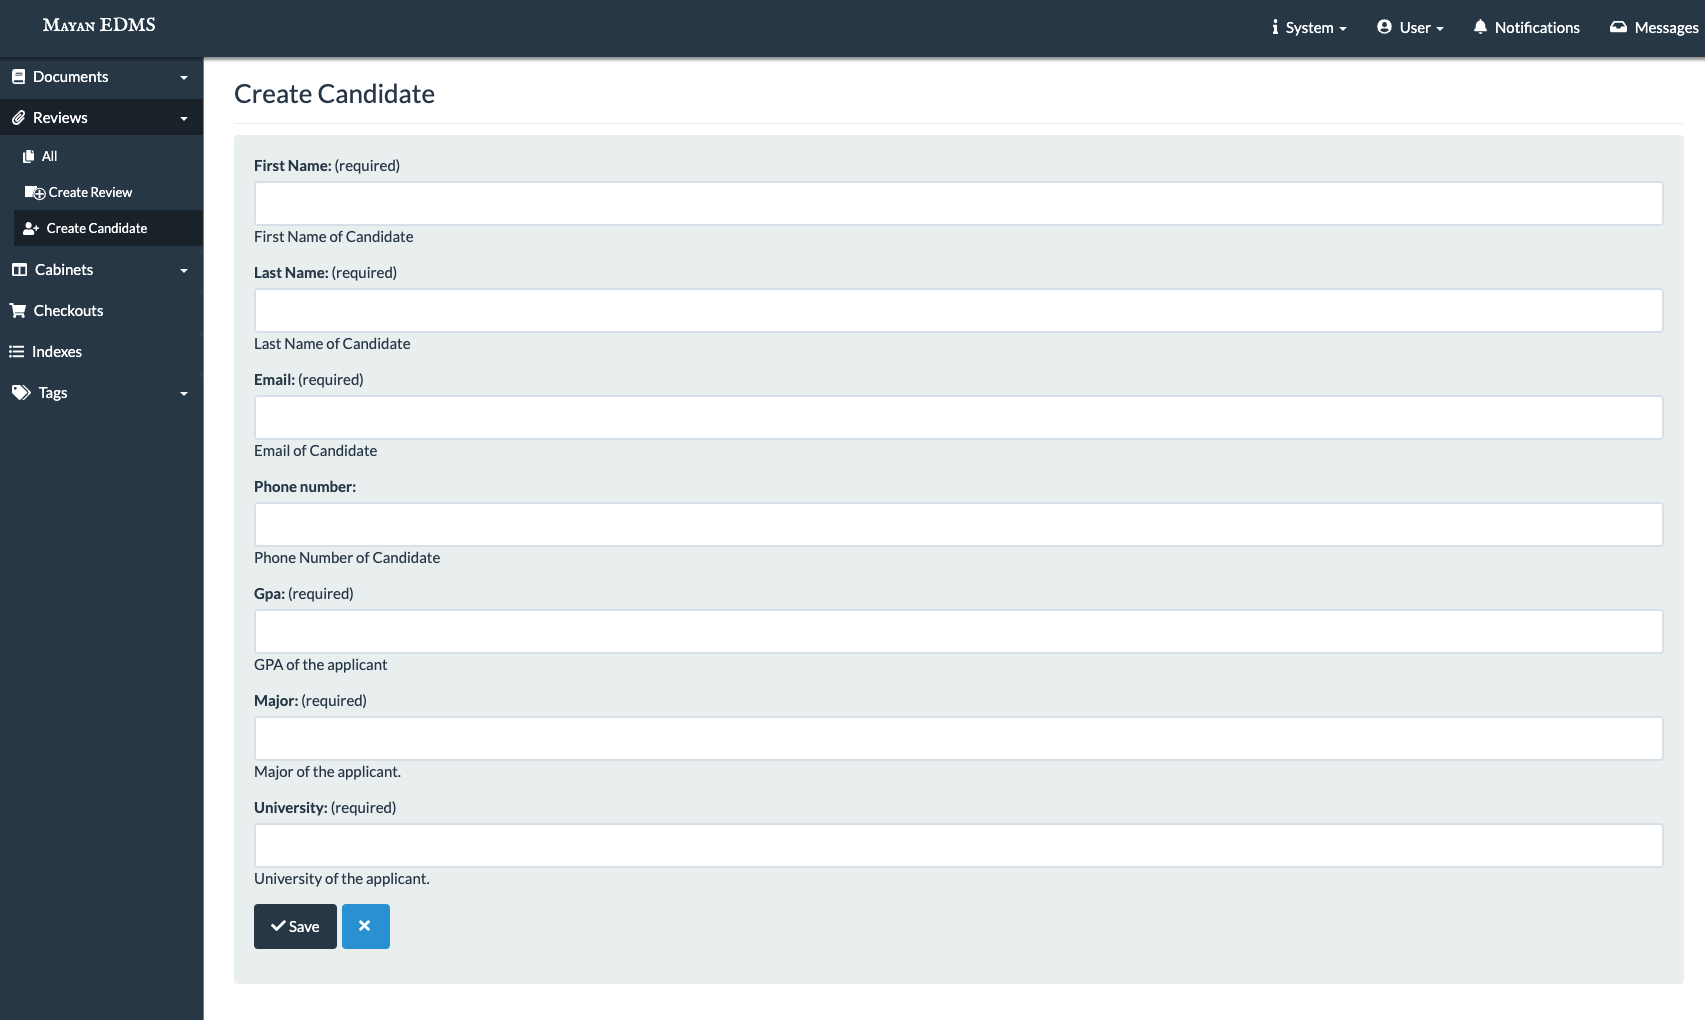
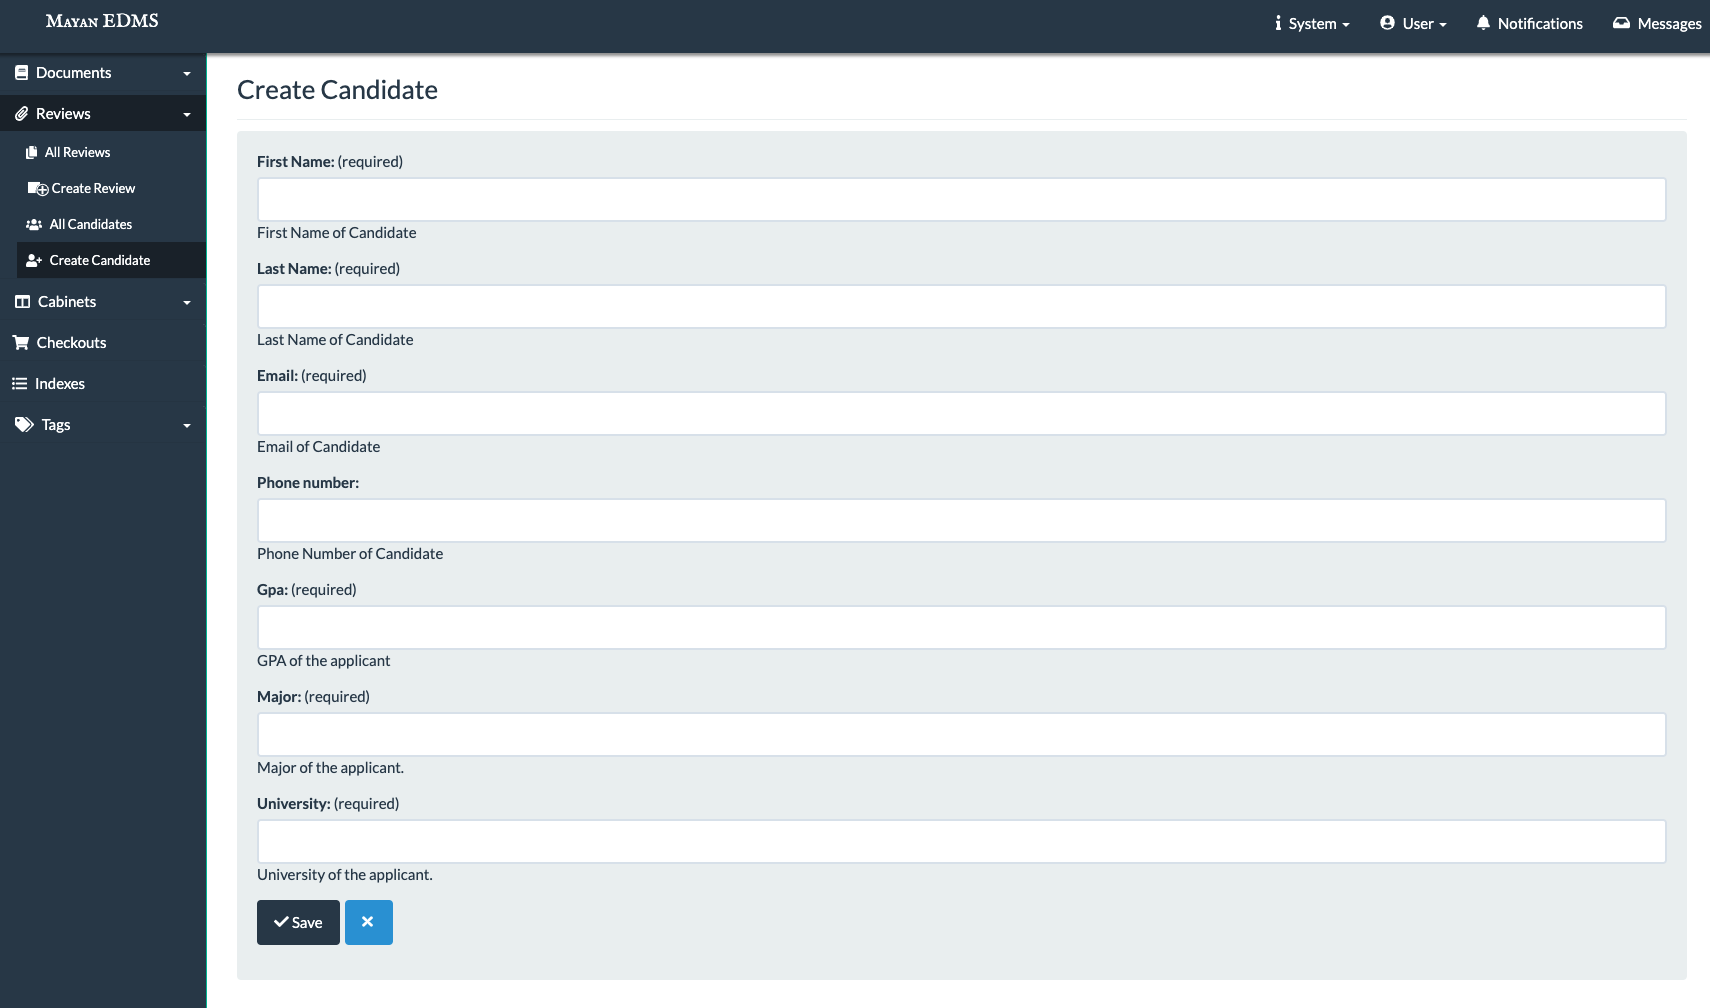
Revised and updated documentation

diff --git a/README.md b/README.md
@@ -92,9 +92,10 @@ along various directions. All code can be found in the `mayan/apps/reviews` fold
 consists of two main components: reviews and candidates. On the side navigation, we have an addition
 <b>reviews</b> tab that gives three options:
 
-1. <b>Create Review</b>: This page allows the user to create a new review for an established candidate
-2. <b>Create Candidate</b>: This page allows the user to add a new candidate to the database
-3. <b>All</b>: This page showcases all the different reviews for a specific candidate
+1. <b>Create Candidate</b>: This page allows the user to add a new candidate to the database 
+2. <b>Create Review</b>: This page allows the user to create a new review for an established candidate
+3. <b>All Reviews</b>: This page showcases all the different reviews for a specific candidate
+4. <b>All Candidates</b>: This page showcases all the different reviews for a specific candidate
 
 All additional tests can be found in `mayan/apps/reviews/tests`. These tests run automatically with GitHub actions. 
 
@@ -114,14 +115,18 @@ All additional tests can be found in `mayan/apps/reviews/tests`. These tests run
 <p>
 <img width="1000" heigth="1000" src="images/review_candidate.png">
 <p align="center">Figure 2: Individual Candidate Review Creation Page</p>
-<h3 align="left">All</h3>
+<h3 align="left">All Reviews</h3>
 <p>
-  Once a candidate has been created, they will be added to the <b>All</b> page where all reviews for all candidates are stored. Users can see the results for
-  each candidate by clicking on that specific review to find the candidate, reviewer, and the scores for each criteria.
+  Once a review for a candidate has been created, it is added to <b>All Reviews</b>. This page stores all the reviews, and shows the candidate, reviewer, and the creation date. We also have CRUD functionality.
 <p>
 <img width="1000" heigth="1000" src="images/show_all_candidate_reviews.png">
-<p align="center">Figure 3: View of Candidates with their Reviewer</p>
+<p align="center">Figure 3: View of All Reviews</p>
 
+<h3 align="left">All Candidates</h3>
+<p>
+  Once a candidate has been created, they will be added to the <b>All Candidate</b> page where the candidate is stored with the total reviews, and the average for each score. Any candidate without any reviews will have N/A for the average scores.
+<p>
 <img width="1000" heigth="1000" src="images/show_candidate_review.png">
 <p align="center">Figure 4: View of Individual Candidate</p>
-
+<img width="1000" heigth="1000" src="images/show_all_candidates.png">
+<p align="center">Figure 5: View of All Candidates</p>
